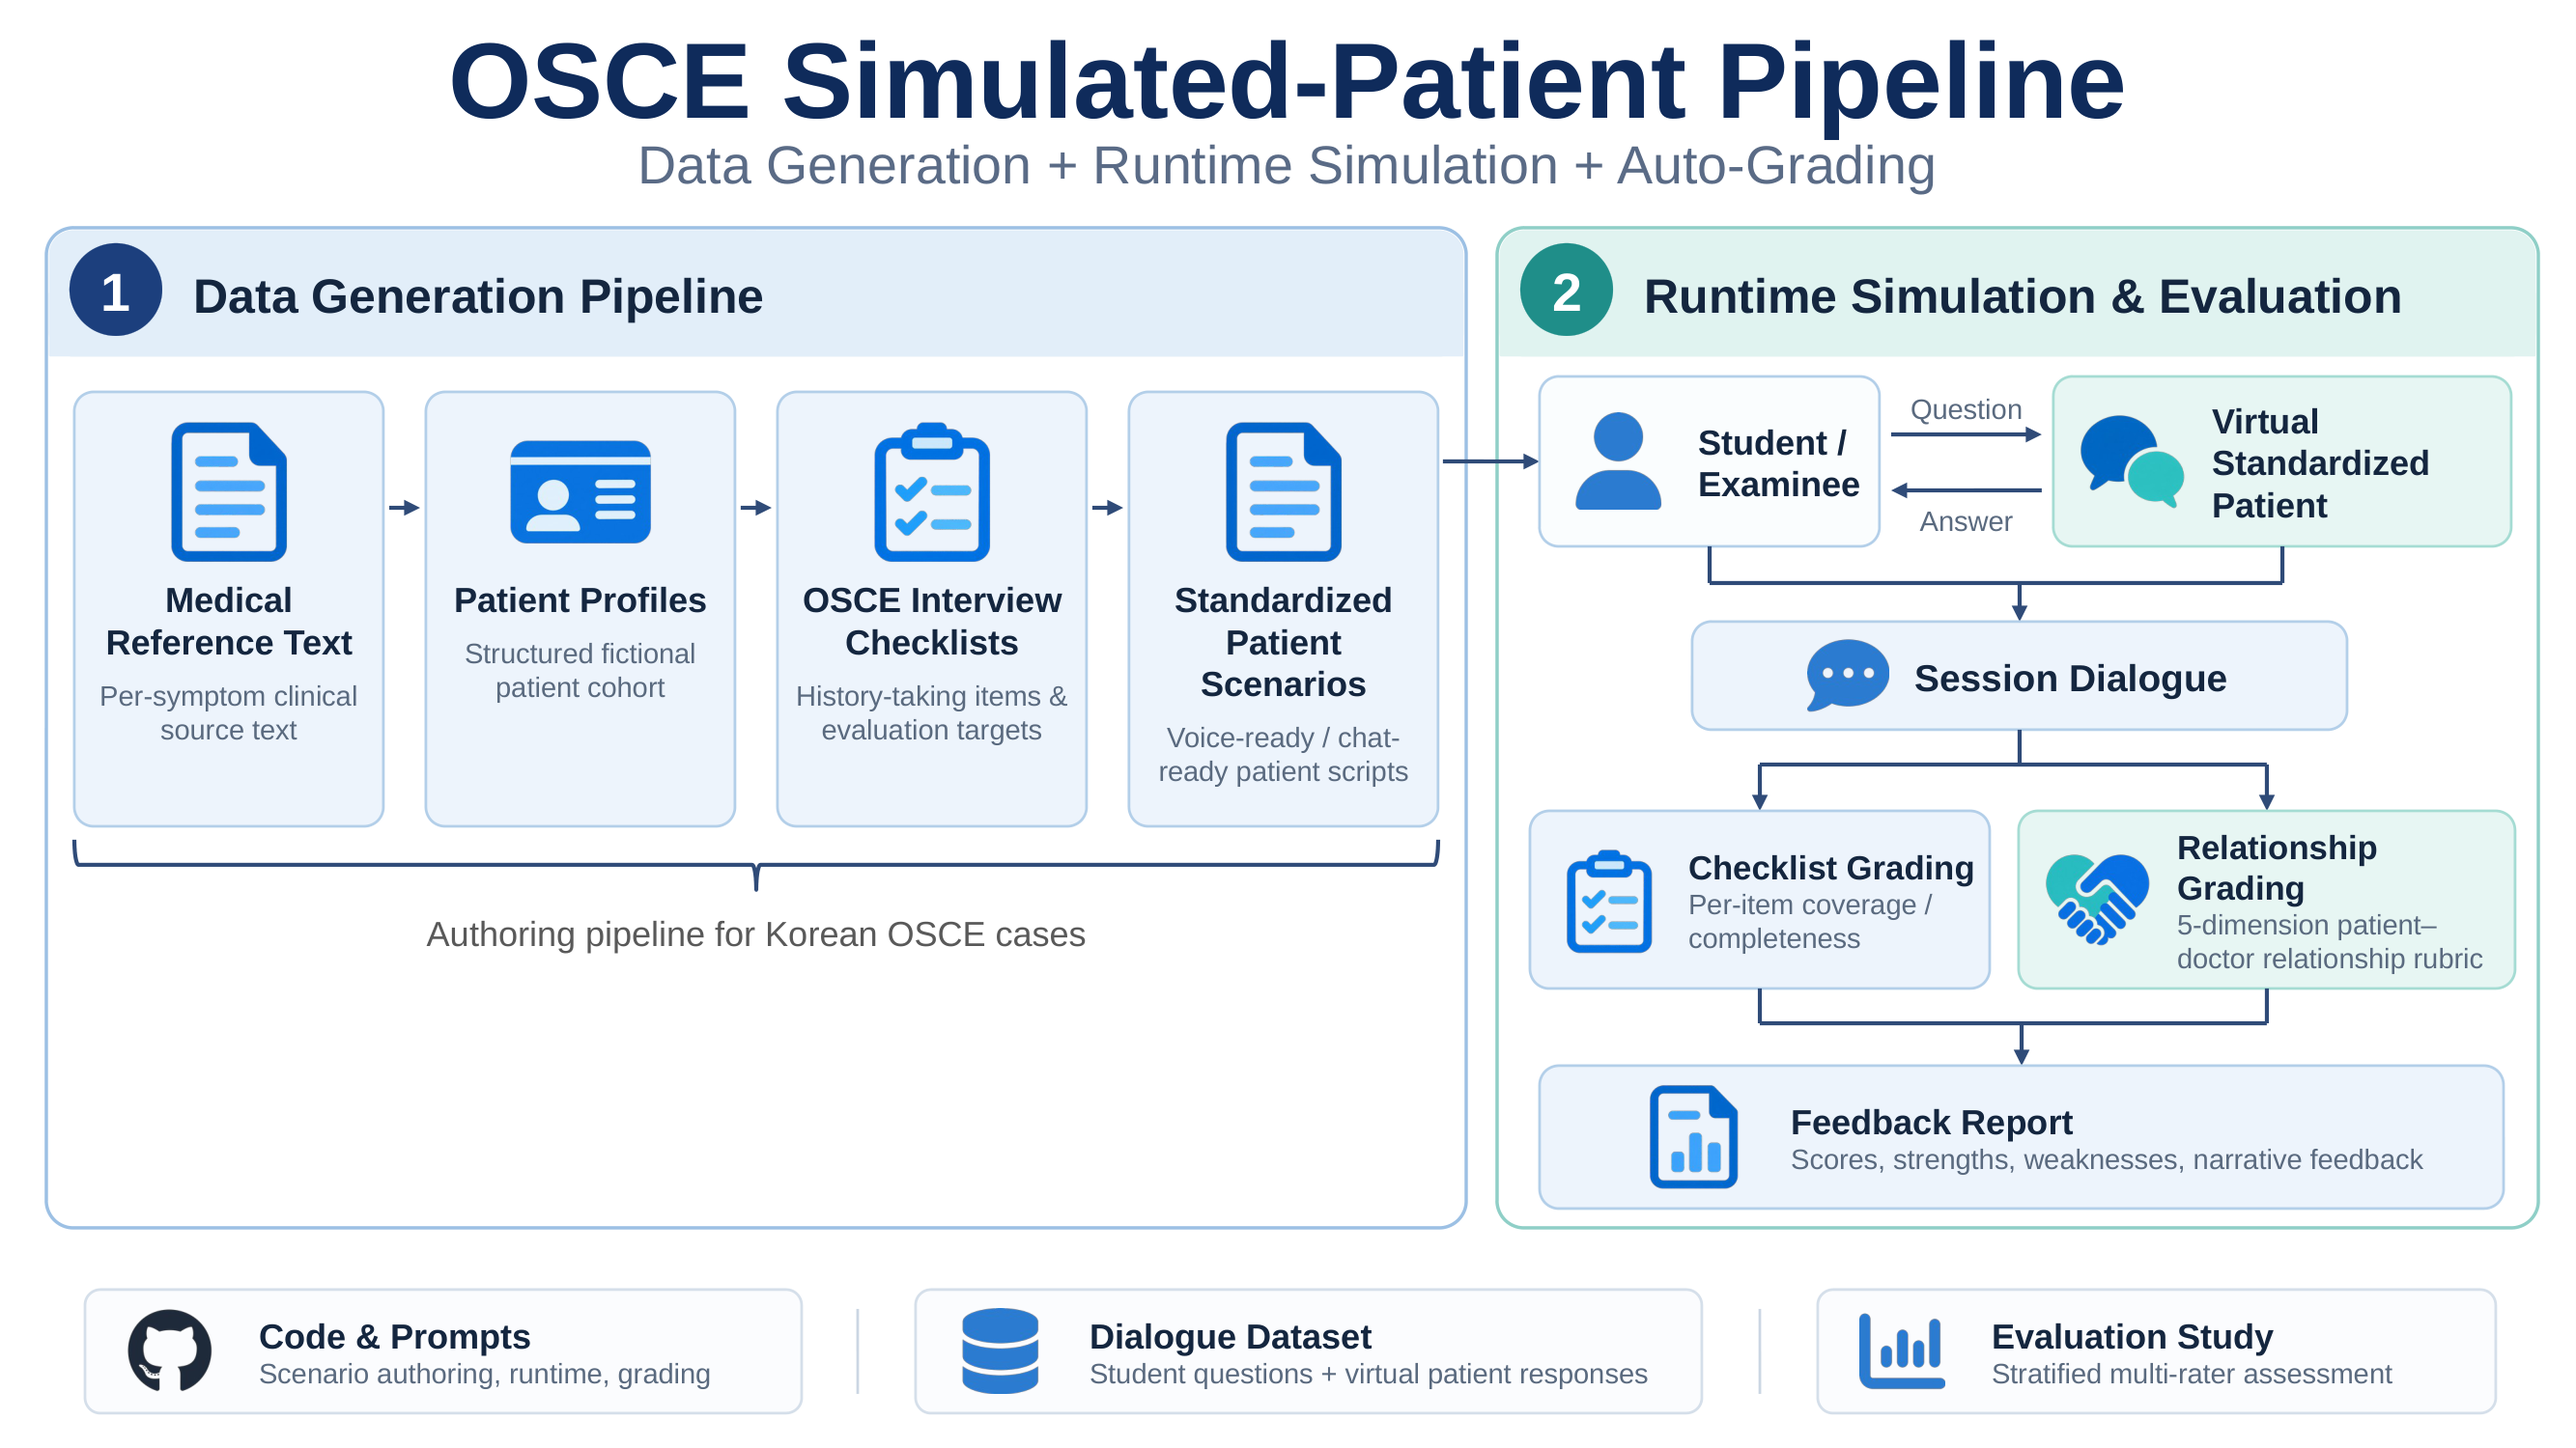
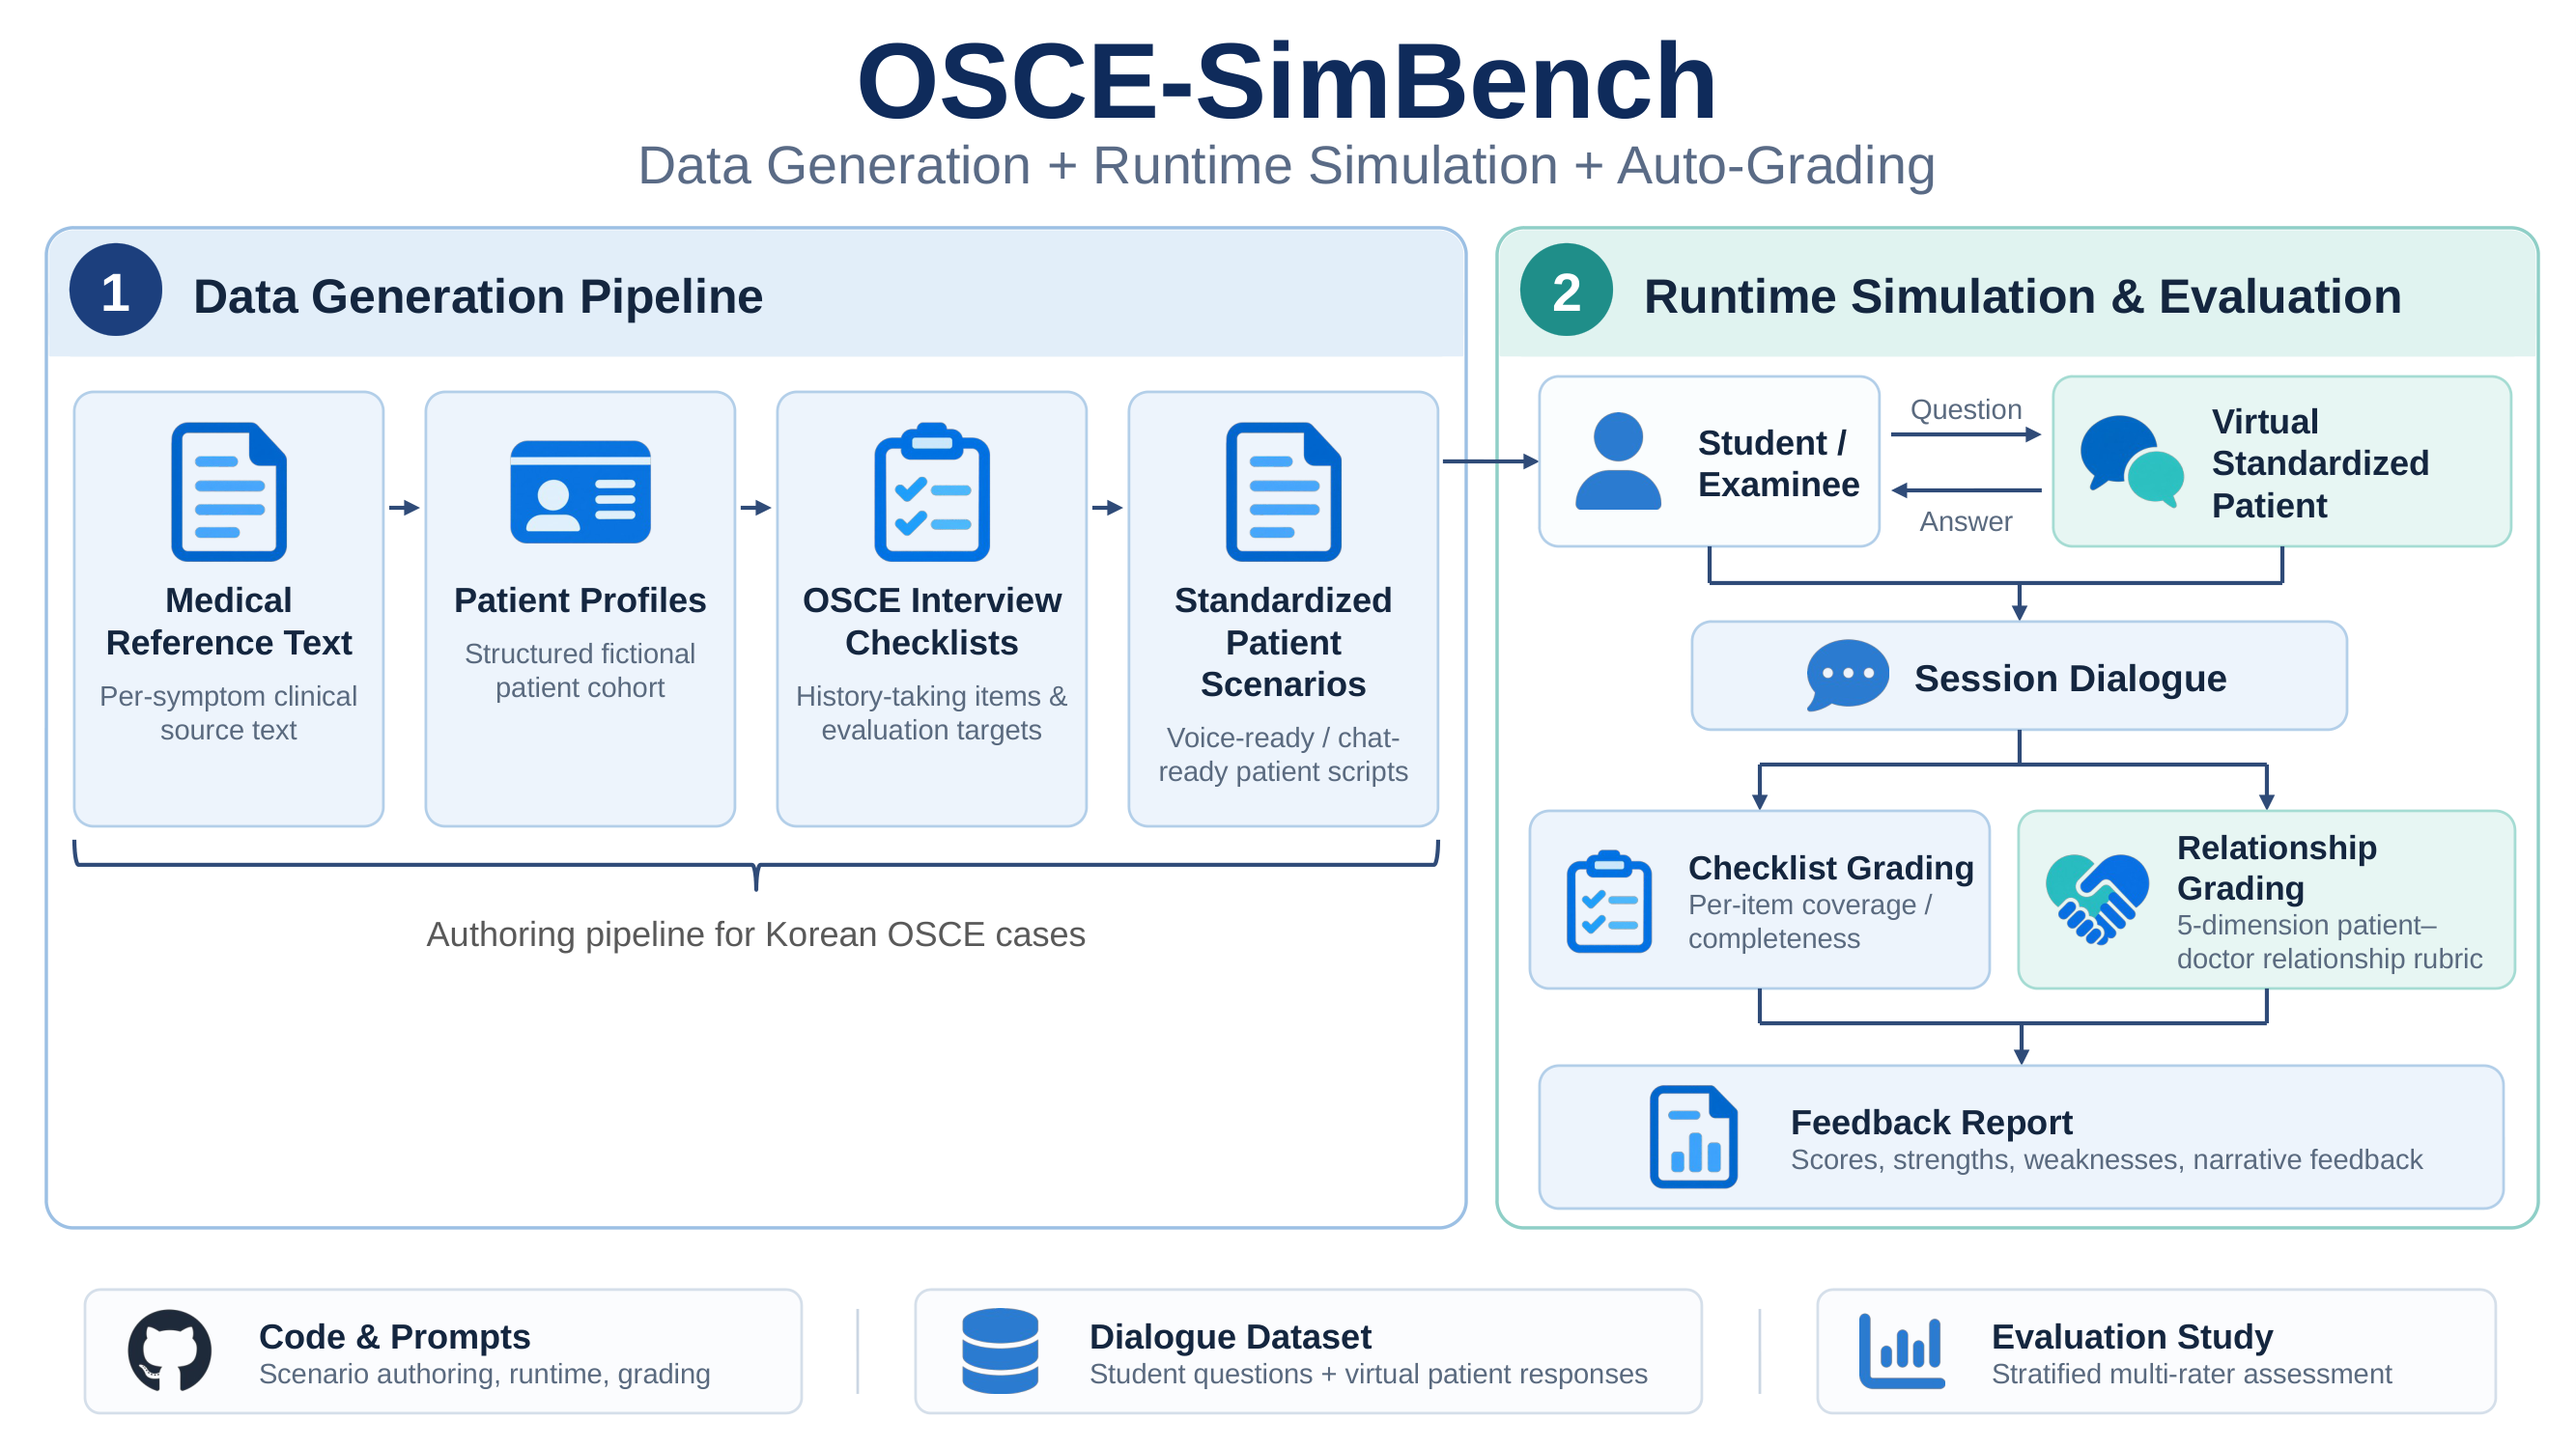
Rename the project to OSCE-SimBench

Changed region(s): [[0.1556, 0.0307, 0.8403, 0.092]]

diff --git a/README.md b/README.md
@@ -1,4 +1,4 @@
-<h1 align="center">[NeurIPS'26] OSCE Simulated-Patient Pipeline</h1>
+<h1 align="center">[NeurIPS'26] OSCE-SimBench</h1>
 
 <p align="center">
 LLM-based virtual standardized patients for Korean OSCE history-taking:<br>
@@ -148,8 +148,8 @@ history-taking taxonomy:
 ## Quick start
 
 ```bash
-git clone https://github.com/JINAILAB/osce-pipeline.git
-cd osce-pipeline
+git clone https://github.com/JINAILAB/OSCE-SimBench.git
+cd OSCE-SimBench
 python -m venv .venv
 source .venv/bin/activate
 pip install -r requirements.txt
